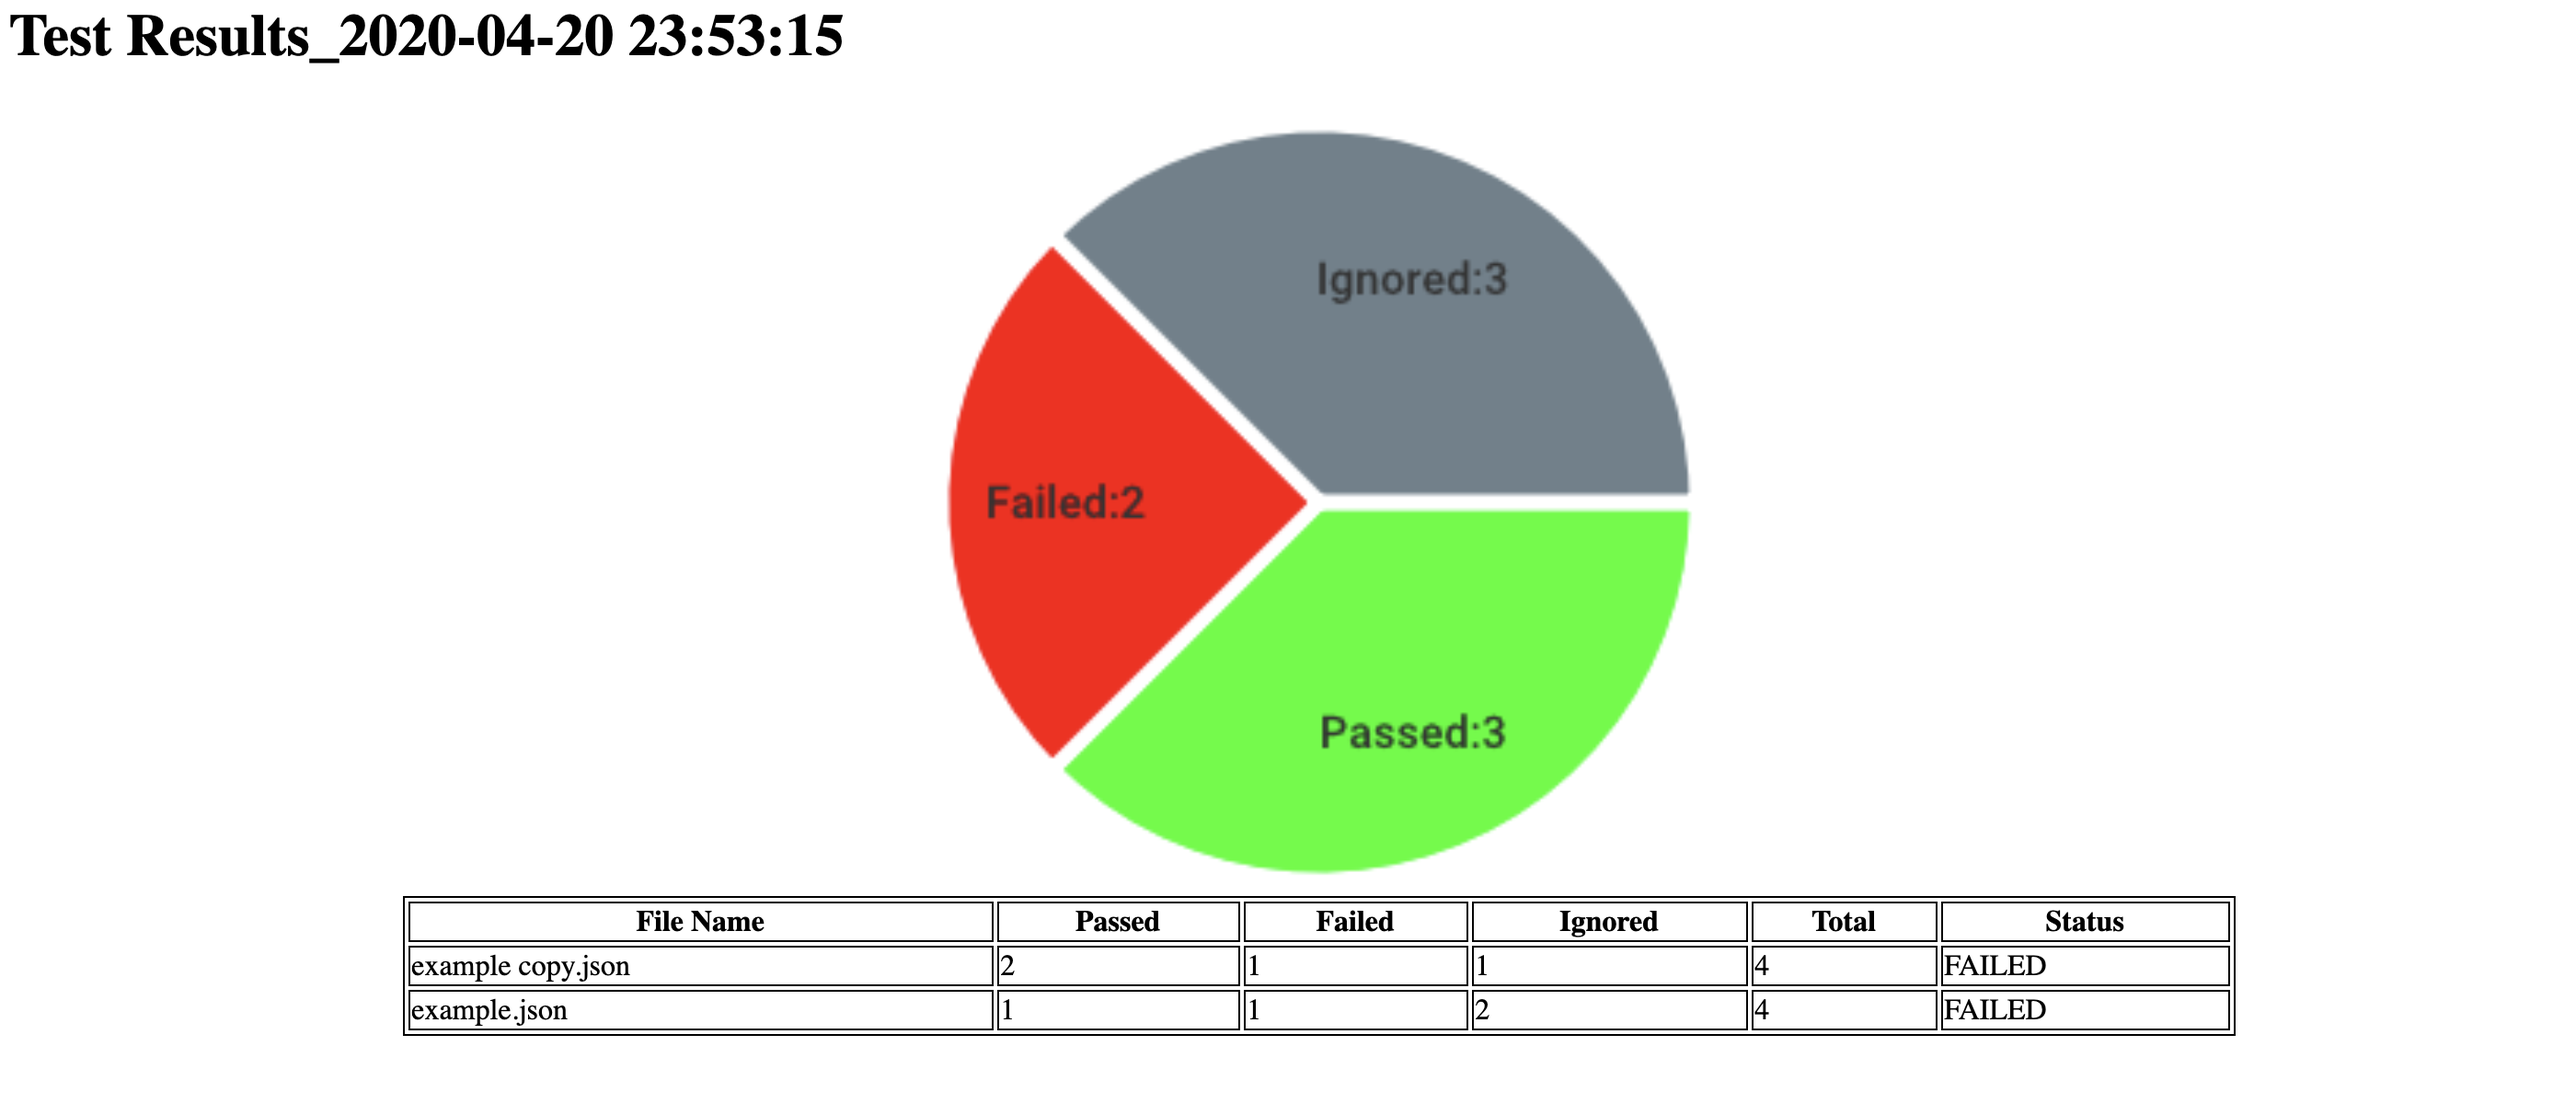
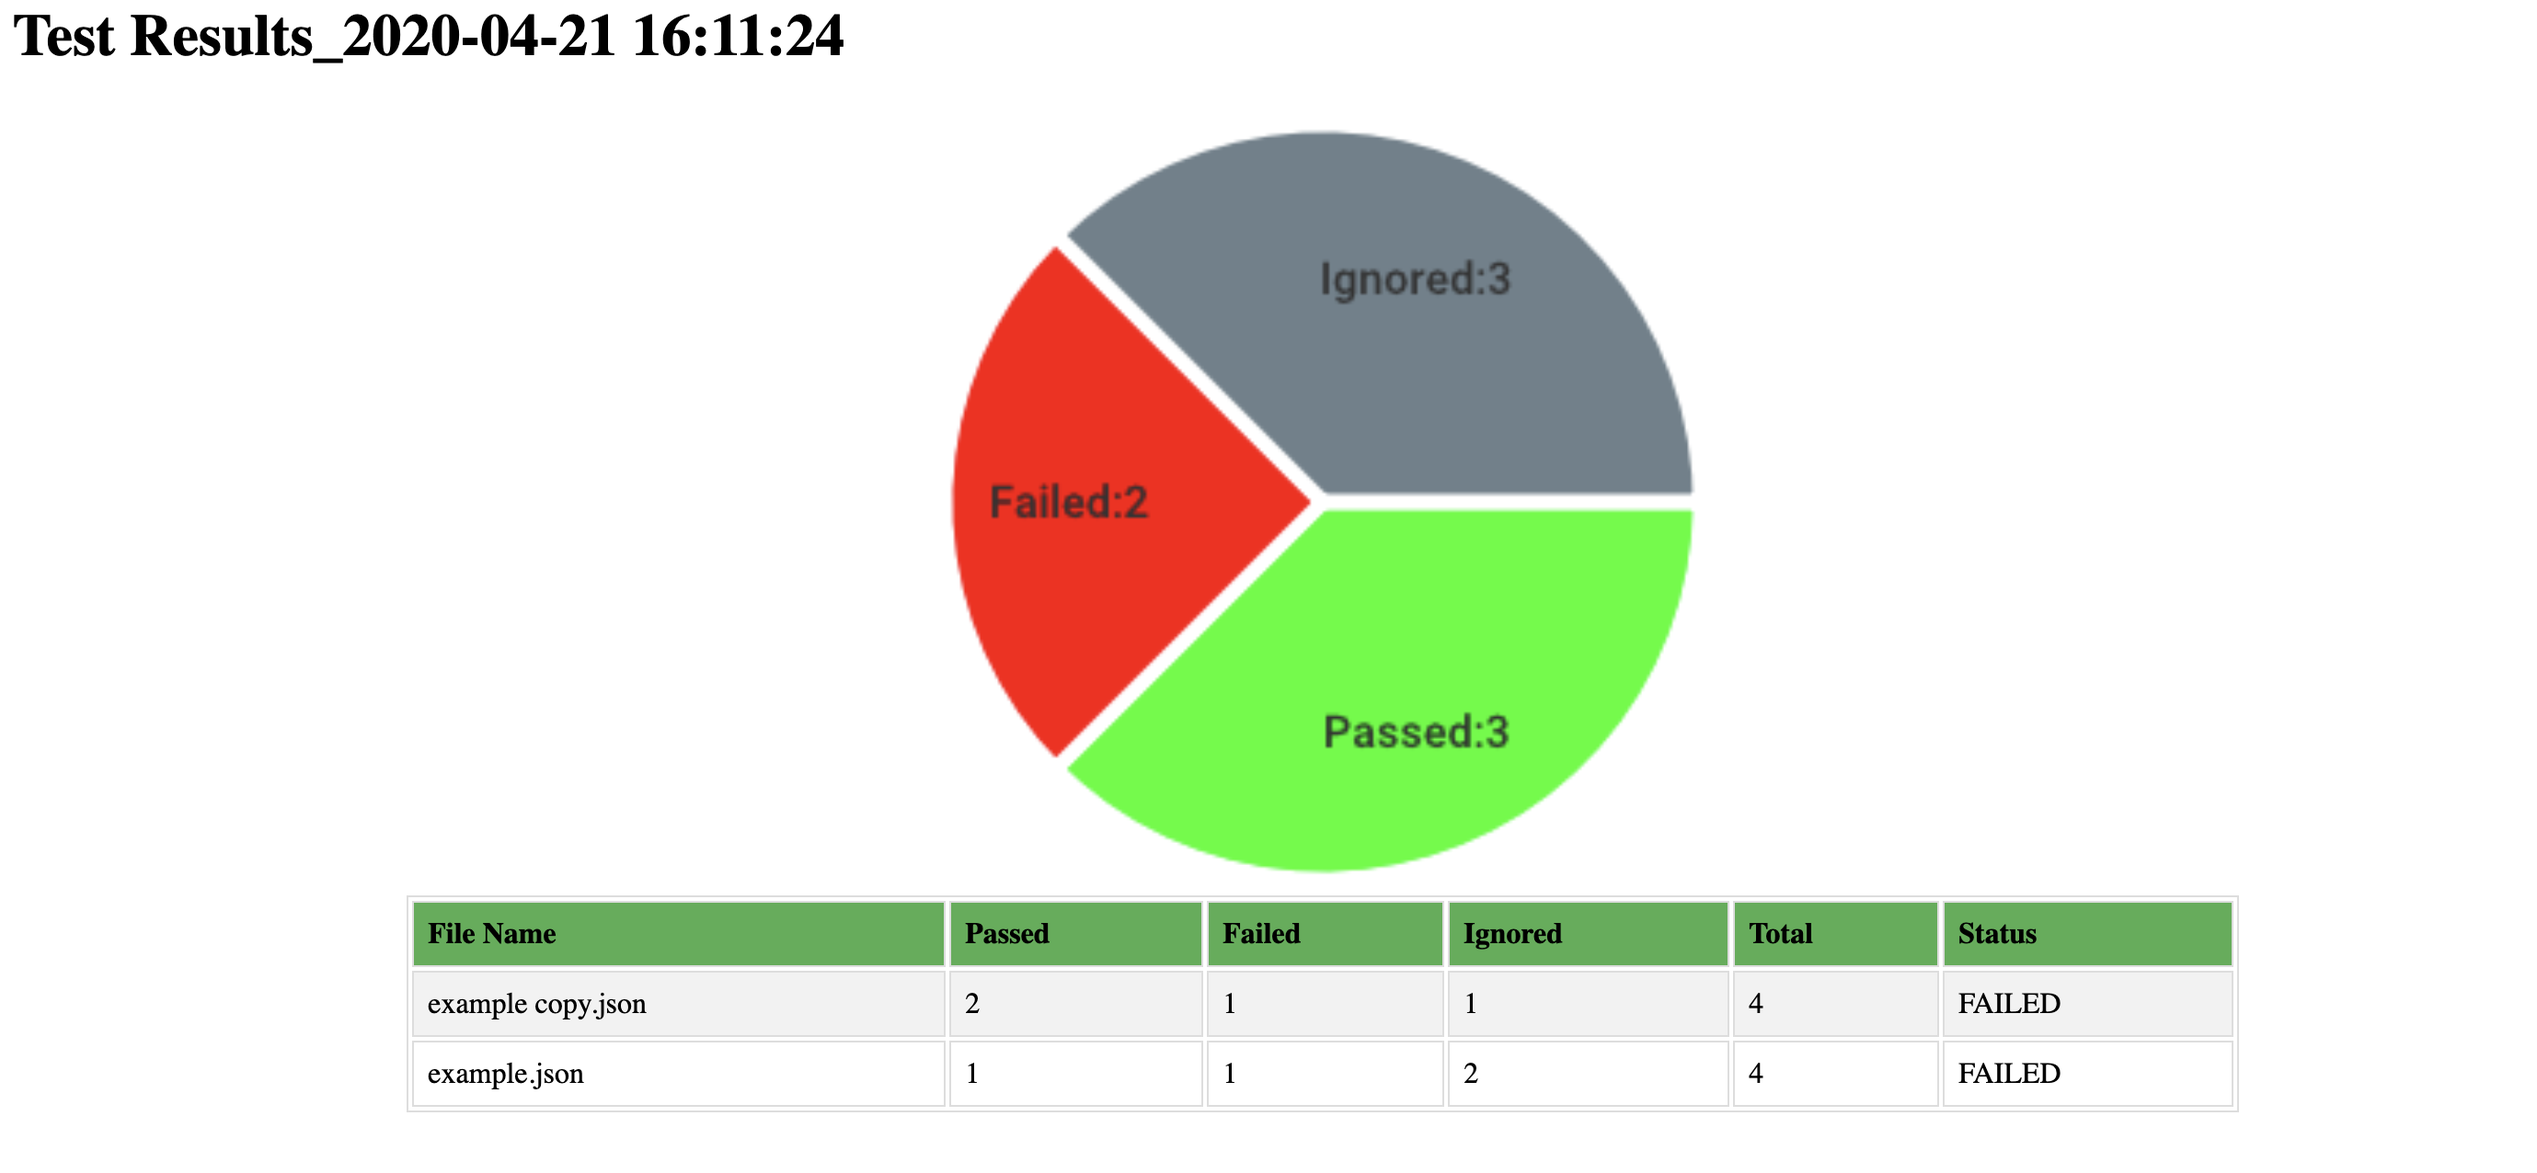
consilidate return types into struct

diff --git a/tests/results/Test Results.html b/tests/results/Test Results.html
@@ -2,10 +2,18 @@
 <head>
 	<style>
 	th, td {
-	  border: 1px solid black;
+	  border: 1px solid #ddd;
+	  text-align: left;
+	  padding: 8px;
 	}
+	th {
+		padding: 8px;
+		background-color: #4CAF50;
+	}
+	tr:nth-child(even){background-color: #f2f2f2;}
+	tr:hover {background-color:#f5f5f5;}
 	table {
-		border: 1px solid black;
+		border: 1px solid #ddd;
 		width:70%; 
 margin-left:15%; 
 margin-right:15%;
@@ -18,7 +26,7 @@ margin-right: 35%;
 	</style>
 	</head>
 	<body>
-		<h1>Test Results_2020-04-20 23:53:15</h1>
+		<h1>Test Results_2020-04-21 16:11:24</h1>
 		<div>
 			<img src="results_pie_chart.png" alt="Test Results" style="width:30%">
 		</div>

diff --git a/service/httpCall_test.go b/service/httpCall_test.go
@@ -223,9 +223,9 @@ func Test_MakeHTTPCall(t *testing.T) {
 
 		InitHTTPClient(mock)
 
-		_, ignored, _ := MakeHTTPCall(scenario)
-		if ignored != ignoredCount {
-			t.Errorf("%v failed,scenario is ignored. expected %v, got %v", t.Name(), ignoredCount, ignored)
+		res, _ := MakeHTTPCall(scenario)
+		if res.Ignored != ignoredCount {
+			t.Errorf("%v failed,scenario is ignored. expected %v, got %v", t.Name(), ignoredCount, res.Ignored)
 		}
 
 	})
@@ -258,13 +258,13 @@ func Test_MakeHTTPCall(t *testing.T) {
 
 		InitHTTPClient(mock)
 
-		result, ignored, _ := MakeHTTPCall(scenario)
-		if ignored != ignoredCount {
-			t.Errorf("%v failed,scenario is ignored. expected %v, got %v", t.Name(), ignoredCount, ignored)
+		result, _ := MakeHTTPCall(scenario)
+		if result.Ignored != ignoredCount {
+			t.Errorf("%v failed,scenario is ignored. expected %v, got %v", t.Name(), ignoredCount, result.Ignored)
 		}
 
-		if result[scenario[0].Scenario] != scenarioResult {
-			t.Errorf("%v failed,scenario result expected %v, got %v", t.Name(), scenarioResult, result[scenario[0].Scenario])
+		if result.TestResults[scenario[0].Scenario] != scenarioResult {
+			t.Errorf("%v failed,scenario result expected %v, got %v", t.Name(), scenarioResult, result.TestResults[scenario[0].Scenario])
 		}
 
 	})
@@ -300,13 +300,13 @@ func Test_MakeHTTPCall(t *testing.T) {
 
 		InitHTTPClient(mock)
 
-		result, ignored, _ := MakeHTTPCall(scenario)
-		if ignored != ignoredCount {
-			t.Errorf("%v failed,scenario is ignored. expected %v, got %v", t.Name(), ignoredCount, ignored)
+		result, _ := MakeHTTPCall(scenario)
+		if result.Ignored != ignoredCount {
+			t.Errorf("%v failed,scenario is ignored. expected %v, got %v", t.Name(), ignoredCount, result.Ignored)
 		}
 
-		if result[scenario[0].Scenario] != scenarioResult {
-			t.Errorf("%v failed,scenario result expected %v, got %v", t.Name(), scenarioResult, result[scenario[0].Scenario])
+		if result.TestResults[scenario[0].Scenario] != scenarioResult {
+			t.Errorf("%v failed,scenario result expected %v, got %v", t.Name(), scenarioResult, result.TestResults[scenario[0].Scenario])
 		}
 
 	})
@@ -338,7 +338,7 @@ func Test_MakeHTTPCall(t *testing.T) {
 
 		InitHTTPClient(mock)
 
-		_, _, err := MakeHTTPCall(scenario)
+		_, err := MakeHTTPCall(scenario)
 		if err != nil && !errorExpected {
 			t.Errorf("%v failed,scenario returned error %v", t.Name(), err)
 		}
@@ -372,13 +372,13 @@ func Test_MakeHTTPCall(t *testing.T) {
 
 		InitHTTPClient(mock)
 
-		result, ignored, _ := MakeHTTPCall(scenario)
-		if ignored != ignoredCount {
-			t.Errorf("%v failed,scenario is ignored. expected %v, got %v", t.Name(), ignoredCount, ignored)
+		result, _ := MakeHTTPCall(scenario)
+		if result.Ignored != ignoredCount {
+			t.Errorf("%v failed,scenario is ignored. expected %v, got %v", t.Name(), ignoredCount, result.Ignored)
 		}
 
-		if result[scenario[0].Scenario] != scenarioResult {
-			t.Errorf("%v failed,scenario result expected %v, got %v", t.Name(), scenarioResult, result[scenario[0].Scenario])
+		if result.TestResults[scenario[0].Scenario] != scenarioResult {
+			t.Errorf("%v failed,scenario result expected %v, got %v", t.Name(), scenarioResult, result.TestResults[scenario[0].Scenario])
 		}
 
 	})
@@ -413,13 +413,13 @@ func Test_MakeHTTPCall(t *testing.T) {
 
 		InitHTTPClient(mock)
 
-		result, ignored, _ := MakeHTTPCall(scenario)
-		if ignored != ignoredCount {
-			t.Errorf("%v failed,scenario is ignored. expected %v, got %v", t.Name(), ignoredCount, ignored)
+		result, _ := MakeHTTPCall(scenario)
+		if result.Ignored != ignoredCount {
+			t.Errorf("%v failed,scenario is ignored. expected %v, got %v", t.Name(), ignoredCount, result.Ignored)
 		}
 
-		if result[scenario[0].Scenario] != scenarioResult {
-			t.Errorf("%v failed,scenario result expected %v, got %v", t.Name(), scenarioResult, result[scenario[0].Scenario])
+		if result.TestResults[scenario[0].Scenario] != scenarioResult {
+			t.Errorf("%v failed,scenario result expected %v, got %v", t.Name(), scenarioResult, result.TestResults[scenario[0].Scenario])
 		}
 
 	})
@@ -453,13 +453,13 @@ func Test_MakeHTTPCall(t *testing.T) {
 
 		InitHTTPClient(mock)
 
-		result, ignored, _ := MakeHTTPCall(scenario)
-		if ignored != ignoredCount {
-			t.Errorf("%v failed,scenario is ignored. expected %v, got %v", t.Name(), ignoredCount, ignored)
+		result, _ := MakeHTTPCall(scenario)
+		if result.Ignored != ignoredCount {
+			t.Errorf("%v failed,scenario is ignored. expected %v, got %v", t.Name(), ignoredCount, result.Ignored)
 		}
 
-		if result[scenario[0].Scenario] != scenarioResult {
-			t.Errorf("%v failed,scenario result expected %v, got %v", t.Name(), scenarioResult, result[scenario[0].Scenario])
+		if result.TestResults[scenario[0].Scenario] != scenarioResult {
+			t.Errorf("%v failed,scenario result expected %v, got %v", t.Name(), scenarioResult, result.TestResults[scenario[0].Scenario])
 		}
 
 	})
@@ -492,7 +492,7 @@ func Test_MakeHTTPCall(t *testing.T) {
 
 		InitHTTPClient(mock)
 
-		_, _, err := MakeHTTPCall(scenario)
+		_, err := MakeHTTPCall(scenario)
 		if err != nil && !errorExpected {
 			t.Errorf("%v failed,scenario returned error %v", t.Name(), err)
 		}

diff --git a/service/httpCall.go b/service/httpCall.go
@@ -56,13 +56,14 @@ func doCall(req *http.Request) ([]byte, int) {
 // 3. Create new http Request and make a call to service.
 // 4. Read the http.Response and compare the results with the assertions in scenarios.
 // 5. Generate the Test results and return thwm along with ignored scenarios count.
-func MakeHTTPCall(scenarios []model.TestScenario) (map[string]bool, int, error) {
+func MakeHTTPCall(scenarios []model.TestScenario) (model.HTTPResult, error) {
 	var (
 		reqBody     []byte
 		err         error
 		requestBody io.Reader
 		body        interface{}
 		ignored     int
+		testResult  model.HTTPResult
 	)
 
 	finalResult := make(map[string]bool)
@@ -91,7 +92,7 @@ func MakeHTTPCall(scenarios []model.TestScenario) (map[string]bool, int, error) 
 			reqBody, err = json.Marshal(body)
 			if err != nil {
 				logrus.Error(err)
-				return nil, 0, err
+				return testResult, err
 			}
 
 			requestBody = strings.NewReader(string(reqBody))
@@ -100,7 +101,7 @@ func MakeHTTPCall(scenarios []model.TestScenario) (map[string]bool, int, error) 
 		req, err := http.NewRequest(test.Method, test.URL, requestBody)
 		if err != nil {
 			logrus.Error(err)
-			return nil, 0, err
+			return testResult, err
 		}
 
 		if test.Header.Authorization != "" {
@@ -113,7 +114,7 @@ func MakeHTTPCall(scenarios []model.TestScenario) (map[string]bool, int, error) 
 		err = json.Unmarshal(bodyBytes, &result)
 		if err != nil {
 			logrus.Error(err)
-			return nil, 0, err
+			return testResult, err
 		}
 
 		switch {
@@ -128,8 +129,10 @@ func MakeHTTPCall(scenarios []model.TestScenario) (map[string]bool, int, error) 
 			finalResult[test.Scenario] = true
 		}
 	}
+	testResult.TestResults = finalResult
+	testResult.Ignored = ignored
 
-	return finalResult, ignored, nil
+	return testResult, nil
 }
 
 func compareData(scenario string, result, expectedResult interface{}) bool {

diff --git a/main.go b/main.go
@@ -65,11 +65,11 @@ func main() {
 				if err != nil {
 					logrus.WithField("file-name", file.Name()).Fatal(err)
 				}
-				result, ignored, err := handleTests(data)
+				result, err := handleTests(data)
 				if err != nil {
 					logrus.WithField("file-name", file.Name()).Fatal(err)
 				}
-				utils.PrintResults(file.Name(), ignored, result)
+				utils.PrintResults(file.Name(), result)
 
 			}(file.Name(), *filePath)
 		}
@@ -85,23 +85,23 @@ func handleSpecificFile(path, fileName string) {
 	if err != nil {
 		logrus.Fatal(err)
 	}
-	result, ignored, err := handleTests(data)
+	result, err := handleTests(data)
 	if err != nil {
 		logrus.Fatal(err)
 	}
-	utils.PrintResults(fileName, ignored, result)
+	utils.PrintResults(fileName, result)
 }
 
 // handleTests unmarshals byte data to TestModel type and pass the scenarios
 // to MakeHTTPCall function that makes calls to URL mentioned in tests.
-func handleTests(data []byte) (result map[string]bool, ignored int, err error) {
+func handleTests(data []byte) (result model.HTTPResult, err error) {
 	var scenarios model.TestModel
 	err = json.Unmarshal(data, &scenarios)
 	if err != nil {
-		return nil, 0, err
+		return result, err
 	}
-	result, ignored, err = service.MakeHTTPCall(scenarios.Test)
-	return result, ignored, err
+	result, err = service.MakeHTTPCall(scenarios.Test)
+	return result, err
 }
 
 // printFileName prints the file name just before the execution starts

diff --git a/utils/utils.go b/utils/utils.go
@@ -6,6 +6,7 @@ import (
 	"os"
 	"time"
 
+	"github.com/kotanetes/go-test-it/model"
 	"github.com/sirupsen/logrus"
 	"github.com/wcharczuk/go-chart"
 	"github.com/wcharczuk/go-chart/drawing"
@@ -40,20 +41,20 @@ var (
 )
 
 // PrintResults evaluates and prints final results based on the given data.
-func PrintResults(fileName string, ignore int, result map[string]bool) {
+func PrintResults(fileName string, result model.HTTPResult) {
 
 	var (
 		total      int
 		pass, fail int32
 	)
 
-	if ignore > 0 {
-		ignored += ignore
+	if result.Ignored > 0 {
+		ignored += result.Ignored
 	}
 
-	total = len(result) + ignore
+	total = len(result.TestResults) + result.Ignored
 
-	for _, v := range result {
+	for _, v := range result.TestResults {
 		if v {
 			passed++
 			pass++
@@ -63,13 +64,13 @@ func PrintResults(fileName string, ignore int, result map[string]bool) {
 		}
 	}
 	fmt.Println("##############################################")
-	fmt.Printf("Total Tests:%v, Passed:%v, Failed:%v, Ignored:%v\n", total, pass, fail, ignore)
+	fmt.Printf("Total Tests:%v, Passed:%v, Failed:%v, Ignored:%v\n", total, pass, fail, result.Ignored)
 	fmt.Println("##############################################")
 
 	fr.FileName = fileName
 	fr.Total = total
 	fr.Failed = fail
-	fr.Ignored = ignore
+	fr.Ignored = result.Ignored
 	fr.Passed = pass
 
 	if fail > 0 {

diff --git a/utils/layout.go b/utils/layout.go
@@ -4,10 +4,18 @@ const layout = `<html>
 <head>
 	<style>
 	th, td {
-	  border: 1px solid black;
+	  border: 1px solid #ddd;
+	  text-align: left;
+	  padding: 8px;
 	}
+	th {
+		padding: 8px;
+		background-color: #4CAF50;
+	}
+	tr:nth-child(even){background-color: #f2f2f2;}
+	tr:hover {background-color:#f5f5f5;}
 	table {
-		border: 1px solid black;
+		border: 1px solid #ddd;
 		width:70%; 
 margin-left:15%; 
 margin-right:15%;

diff --git a/utils/utils_test.go b/utils/utils_test.go
@@ -3,6 +3,8 @@ package utils
 import (
 	"os"
 	"testing"
+
+	"github.com/kotanetes/go-test-it/model"
 )
 
 func init() {
@@ -27,5 +29,7 @@ func Test_PrintResults(t *testing.T) {
 		"test 2": false,
 	}
 
-	PrintResults(fileName, ignored, result)
+	hr := model.HTTPResult{TestResults: result, Ignored: ignored}
+
+	PrintResults(fileName, hr)
 }

diff --git a/model/model.go b/model/model.go
@@ -26,3 +26,9 @@ type Header struct {
 	Authorization string `json:"authorization"`
 	ContentType   string `json:"content-type"`
 }
+
+type HTTPResult struct {
+	TestResults  map[string]bool
+	Ignored      int
+	ResponseTime int
+}
